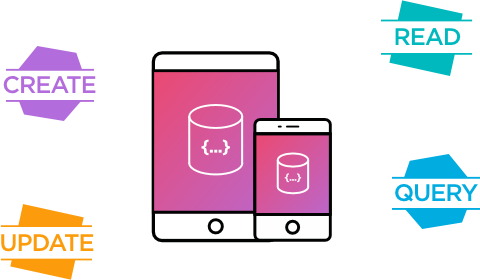
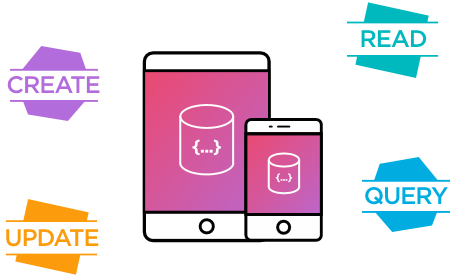
b

diff --git a/solucoes/couchbase-nosql/index.html b/solucoes/couchbase-nosql/index.html
@@ -131,7 +131,7 @@
 				</div>
             </div>
             <div class="col_1 left">
-			<img src="../../wp-content/uploads/2019/05/catalogo2resize.png" class="block right" Style="z-index:-1"/>
+			<img src="../../wp-content/uploads/2019/05/Couchbase.png" class="block right" Style="z-index:-1"/>
 				                <div class="clear"></div>
             </div>
             <div class="clear"></div>
